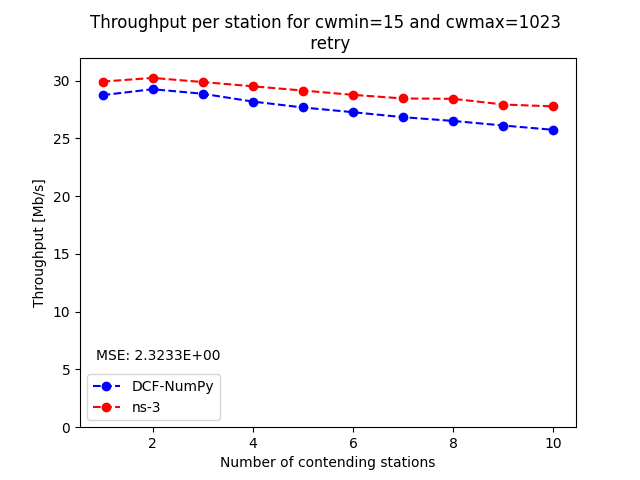
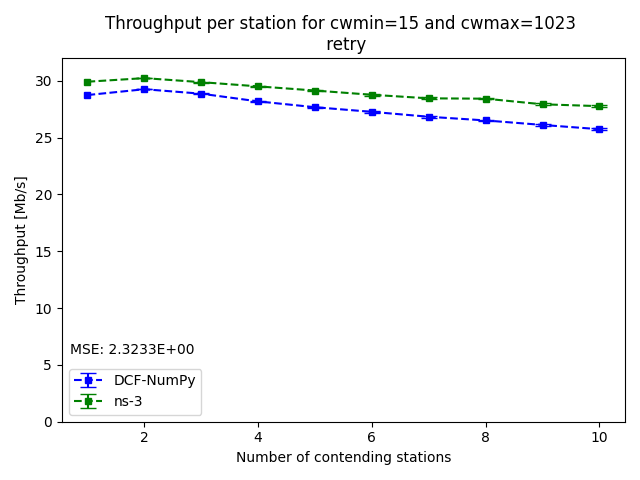
adds confidence interval calculation for thr and displays them on graph

diff --git a/draw_graphs.py b/draw_graphs.py
@@ -6,20 +6,24 @@ from decimal import Decimal
 # configuration data: which results to show on graph
 cw_min = 15
 cw_max = 1023
-N = 10 #number of contending stations
+N = 10  # number of contending stations
 retry_limit = True
 
 if retry_limit:
     retry = 'retry'
 else:
     retry = 'no_retry'
-final_results = pd.read_csv(f'results/final_results_{cw_min}_{cw_max}_{retry}.csv')
+final_results = pd.read_csv(
+    f'results/final_results_{cw_min}_{cw_max}_{retry}.csv')
 
 # p_coll graph
 # calculation of MSE
-MSE_model = np.square(np.subtract(final_results['p_coll_simulation'], final_results['p_coll_model'])).mean()
-MSE_matlab = np.square(np.subtract(final_results['p_coll_simulation'], final_results['p_coll_matlab'])).mean()
-MSE_ns3 = np.square(np.subtract(final_results['p_coll_simulation'], final_results['p_coll_ns3'])).mean()
+MSE_model = np.square(np.subtract(
+    final_results['p_coll_simulation'], final_results['p_coll_model'])).mean()
+MSE_matlab = np.square(np.subtract(
+    final_results['p_coll_simulation'], final_results['p_coll_matlab'])).mean()
+MSE_ns3 = np.square(np.subtract(
+    final_results['p_coll_simulation'], final_results['p_coll_ns3'])).mean()
 
 plt.figure()
 plt.plot(
@@ -35,9 +39,10 @@ plt.plot(
     final_results['N'],
     final_results['p_coll_ns3'],
     'co--'
-    )
+)
 
-plt.title(f"Mean probability of collision for cwmin={cw_min} and cwmax={cw_max} \n {retry}")
+plt.title(
+    f"Mean probability of collision for cwmin={cw_min} and cwmax={cw_max} \n {retry}")
 plt.xlabel('Number of contending stations')
 plt.ylabel('Probability of collision')
 plt.legend(['DCF-NumPy', 'Analytical model', 'Matlab simulation', 'ns-3'])
@@ -47,23 +52,29 @@ plt.figtext(0.55, 0.2, '* Matlab: %.4E' % Decimal(MSE_matlab))
 plt.figtext(0.55, 0.15, '* Ns-3: %.4E' % Decimal(MSE_ns3))
 plt.savefig(f'results/graphs/p_coll_result_{cw_min}_{cw_max}_{retry}.png')
 
-#throughput graph
+# throughput graph
 
-MSE_ns3_thr = np.square(np.subtract(final_results['throughput_simulation'], final_results['thr_ns3'])).mean()
+MSE_ns3_thr = np.square(np.subtract(
+    final_results['throughput_simulation'], final_results['thr_ns3'])).mean()
 
-plt.figure()
-plt.plot(
-    final_results['N'],
-    final_results['throughput_simulation'],
-    'bo--',
-    final_results['N'],
-    final_results['thr_ns3'],
-    'ro--'
-    )
-plt.title(f"Throughput per station for cwmin={cw_min} and cwmax={cw_max} \n {retry}")
+thr_sim = final_results['throughput_simulation']
+thr_conf = final_results['thr_conf_intervals']
+n = final_results['N']
+thr_ns3 = final_results['thr_ns3']
+
+fig = plt.figure()
+plt.errorbar(x=n, y=thr_sim, yerr=thr_conf, capsize=6, marker='s',
+             markersize=5, linestyle='dashed', color='b', mfc='b', mec='b')
+plt.errorbar(x=n, y=thr_ns3,yerr=thr_conf, capsize=6, marker='s',
+             markersize=5, linestyle='dashed', color='g', mfc='g', mec='g')
+plt.title(
+    f"Throughput per station for cwmin={cw_min} and cwmax={cw_max} \n {retry}")
 plt.xlabel('Number of contending stations')
 plt.ylabel('Throughput [Mb/s]')
+legend = plt.legend(['DCF-NumPy', 'ns-3'])
+
+plt.text(0.7, 6, 'MSE: %.4E' % Decimal(MSE_ns3_thr))
 plt.ylim(ymin=0, ymax=32)
-plt.legend(['DCF-NumPy', 'ns-3'])
-plt.figtext(0.15, 0.25, 'MSE: %.4E' % Decimal(MSE_ns3_thr))
+plt.tight_layout()
+
 plt.savefig(f'results/graphs/throughput_result_{cw_min}_{cw_max}_{retry}.png')

diff --git a/run_simulation.py b/run_simulation.py
@@ -1,7 +1,7 @@
 from simulation import dcf_simulation
 import pandas as pd
 import numpy as np
-import scipy.stats as st
+import conf_intervals
 
 # configuration data for simulation
 N = 10 #number of contending stations
@@ -58,11 +58,7 @@ throughput_results = pd.DataFrame(np.delete(simulation_results, -2, axis=1), col
 ])
 
 #calculating the confidence intervals
-alpha=0.05
-std = throughput_results.groupby('N').std().loc[:, 'throughput_simulation']
-n = throughput_results.groupby('N').count().loc[:, 'throughput_simulation']
-#confidence intervals in Mb/s
-yerr = (std / np.sqrt(n) * st.t.ppf(1-alpha/2, n - 1))/1e6
+yerr = conf_intervals.confidence_intervals(throughput_results, 'throughput_simulation')
 
 #grouping the results with the same N and calculating mean throughput for each N
 throughput_results = throughput_results.groupby([

diff --git a/conf_intervals.py b/conf_intervals.py
@@ -1,0 +1,9 @@
+import scipy.stats as st
+import numpy as np
+
+
+def confidence_intervals(results, field, alpha=0.05):
+    std = results.groupby('N').std().loc[:, field]
+    n = results.groupby('N').count().loc[:, field]
+    yerr = std / np.sqrt(n) * st.t.ppf(1-alpha/2, n - 1)
+    return yerr
